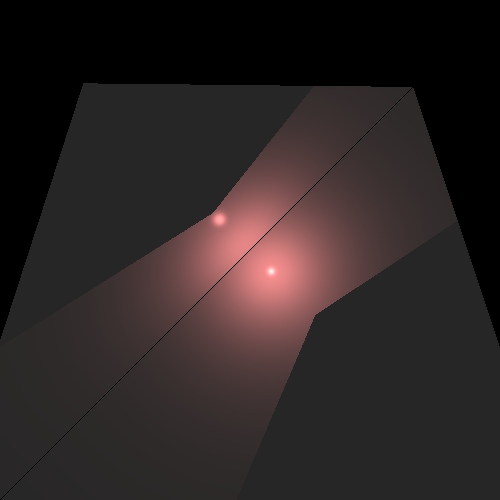
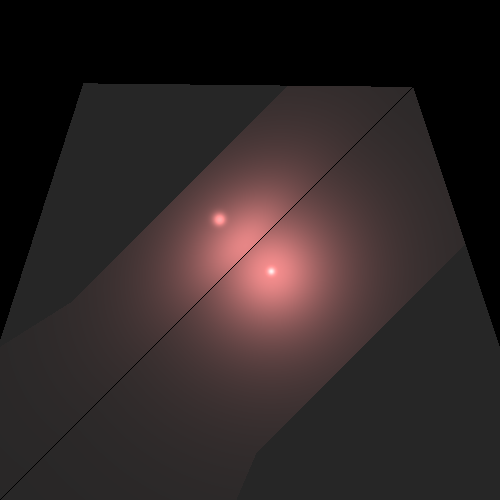
shadow tests

Changed region(s): [[0.54, 0.51, 0.81, 0.81], [0.24, 0.24, 0.57, 0.54]]

diff --git a/myTests/elements/ShadowTest.java b/myTests/elements/ShadowTest.java
@@ -42,6 +42,95 @@ class ShadowTest {
                 .setRayTracer(new RayTracerBasic(scene));
         render.renderImage();
         render.writeToImage();
+
+
+        /************************************** boundry Tests **************************************************/
+        scene = new Scene("Test scene");
+        scene.geometries.add( //
+                new Sphere( new Point3D(0, 0, -200),60) //
+                        .setEmission(new Color(java.awt.Color.BLUE)) //
+                        .setMaterial(new Material().setkD(0.5).setkS(0.5).setnShininess(30)), //
+                new Triangle(new Point3D(-60, -30, 0), new Point3D(-30, -60, 0), new Point3D(-58, -58, -4)) //
+                        .setEmission(new Color(java.awt.Color.BLUE)) //
+                        .setMaterial(new Material().setkD(0.5).setkS(0.5).setnShininess(30)) //
+        );
+        scene.lights.add( //
+                new SpotLight(new Color(400, 240, 0), new Point3D(-100, -100, 200), new Vector(1, 1, -3)) //
+                        .setkL(1E-5).setkQ(1.5E-7));
+
+        render = new Render(). //
+                setImageWriter(new ImageWriter("shadowSphereTriangleInitialTest1", 400, 400)) //
+                .setCamera(camera) //
+                .setRayTracer(new RayTracerBasic(scene));
+        render.renderImage();
+        render.writeToImage();
+
+
+        scene = new Scene("Test scene");
+        scene.geometries.add( //
+                new Sphere( new Point3D(0, 0, -200),60) //
+                        .setEmission(new Color(java.awt.Color.BLUE)) //
+                        .setMaterial(new Material().setkD(0.5).setkS(0.5).setnShininess(30)), //
+                new Triangle(new Point3D(-50, -20, 0), new Point3D(-20, -50, 0), new Point3D(-48, -48, -4)) //
+                        .setEmission(new Color(java.awt.Color.BLUE)) //
+                        .setMaterial(new Material().setkD(0.5).setkS(0.5).setnShininess(30)) //
+        );
+        scene.lights.add( //
+                new SpotLight(new Color(400, 240, 0), new Point3D(-100, -100, 200), new Vector(1, 1, -3)) //
+                        .setkL(1E-5).setkQ(1.5E-7));
+
+        render = new Render(). //
+                setImageWriter(new ImageWriter("shadowSphereTriangleInitialTest2", 400, 400)) //
+                .setCamera(camera) //
+                .setRayTracer(new RayTracerBasic(scene));
+        render.renderImage();
+        render.writeToImage();
+
+
+        scene = new Scene("Test scene");
+        scene.geometries.add( //
+                new Sphere( new Point3D(0, 0, -200),60) //
+                        .setEmission(new Color(java.awt.Color.BLUE)) //
+                        .setMaterial(new Material().setkD(0.5).setkS(0.5).setnShininess(30)), //
+                new Triangle(new Point3D(-70, -40, 0), new Point3D(-40, -70, 0), new Point3D(-68, -68, -4)) //
+                        .setEmission(new Color(java.awt.Color.BLUE)) //
+                        .setMaterial(new Material().setkD(0.5).setkS(0.5).setnShininess(30)) //
+        );
+        scene.lights.add( //
+                new SpotLight(new Color(400, 240, 0), new Point3D(-85, -85, 155), new Vector(1, 1, -3)) //
+                        .setkL(1E-5).setkQ(1.5E-7));
+
+        render = new Render(). //
+                setImageWriter(new ImageWriter("shadowSphereTriangleInitialTest3", 400, 400)) //
+                .setCamera(camera) //
+                .setRayTracer(new RayTracerBasic(scene));
+        render.renderImage();
+        render.writeToImage();
+
+
+
+        scene = new Scene("Test scene");
+        scene.geometries.add( //
+                new Sphere( new Point3D(0, 0, -200),60) //
+                        .setEmission(new Color(java.awt.Color.BLUE)) //
+                        .setMaterial(new Material().setkD(0.5).setkS(0.5).setnShininess(30)), //
+                new Triangle(new Point3D(-70, -40, 0), new Point3D(-40, -70, 0), new Point3D(-68, -68, -4)) //
+                        .setEmission(new Color(java.awt.Color.BLUE)) //
+                        .setMaterial(new Material().setkD(0.5).setkS(0.5).setnShininess(30)) //
+        );
+        scene.lights.add( //
+                new SpotLight(new Color(400, 240, 0), new Point3D(-67.5, -67.5, 40), new Vector(1, 1, -3)) //
+                        .setkL(1E-5).setkQ(1.5E-7));
+
+        render = new Render(). //
+                setImageWriter(new ImageWriter("shadowSphereTriangleInitialTest4", 400, 400)) //
+                .setCamera(camera) //
+                .setRayTracer(new RayTracerBasic(scene));
+        render.renderImage();
+        render.writeToImage();
+
+
+
     }
 
     /**
